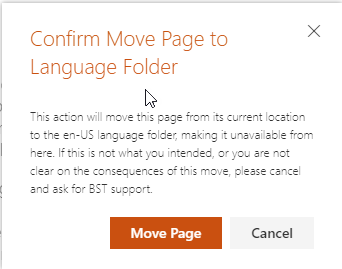
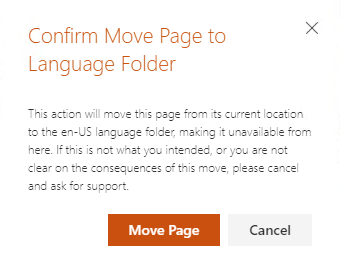
Update 1.6.2
Genericize Move Page confirmation message.
Remove development endpoint from serve.json

diff --git a/solutions/MultilingualPages/src/extensions/multilingualExtension/components/MultilingualButton.tsx b/solutions/MultilingualPages/src/extensions/multilingualExtension/components/MultilingualButton.tsx
@@ -72,6 +72,7 @@ export class MultilingualButton extends React.Component<IMultilingualButtonProps
   }
 
   private init(): void {
+    if(this.props.rootFolder) {return;}
     let pageLanguages: IPageVariants[] = [];
     let pageLanguagesOptions: ILanguageSelectOption[] = [];
     let defaultOption: string = "";
@@ -123,7 +124,7 @@ export class MultilingualButton extends React.Component<IMultilingualButtonProps
         defaultOption: defaultOption
       });
     } catch (err) {
-      Logger.write(`${err} - ${this.LOG_SOURCE}`, LogLevel.Error);
+      Logger.write(`${err} - ${this.LOG_SOURCE} (init)`, LogLevel.Error);
     }
     return;
   }
@@ -140,7 +141,7 @@ export class MultilingualButton extends React.Component<IMultilingualButtonProps
         document.location.href = urlRedirect;
       }
     } catch (err) {
-      Logger.write(`${err} - ${this.LOG_SOURCE}`, LogLevel.Error);
+      Logger.write(`${err} - ${this.LOG_SOURCE} (changePage)`, LogLevel.Error);
     }
   }
 
@@ -171,7 +172,7 @@ export class MultilingualButton extends React.Component<IMultilingualButtonProps
       }
       document.location.href = urlRedirect;
     } catch (err) {
-      Logger.write(`${err} - ${this.LOG_SOURCE}`, LogLevel.Error);
+      Logger.write(`${err} - ${this.LOG_SOURCE} (movePage)`, LogLevel.Error);
       this.setState({
         movingPage: false
       });
@@ -236,7 +237,7 @@ export class MultilingualButton extends React.Component<IMultilingualButtonProps
           dialogContentProps={{
             type: DialogType.normal,
             title: "Confirm Move Page to Language Folder",
-            subText: `This action will move this page from its current location to the ${this.state.movePageLocation} language folder, making it unavailable from here.  If this is not what you intended, or you are not clear on the consequences of this move, please cancel and ask for BST support.`
+            subText: `This action will move this page from its current location to the ${this.state.movePageLocation} language folder, making it unavailable from here.  If this is not what you intended, or you are not clear on the consequences of this move, please cancel and ask for support.`
           }}
           modalProps={{
             titleAriaId: 'promptMoveLabelId',
